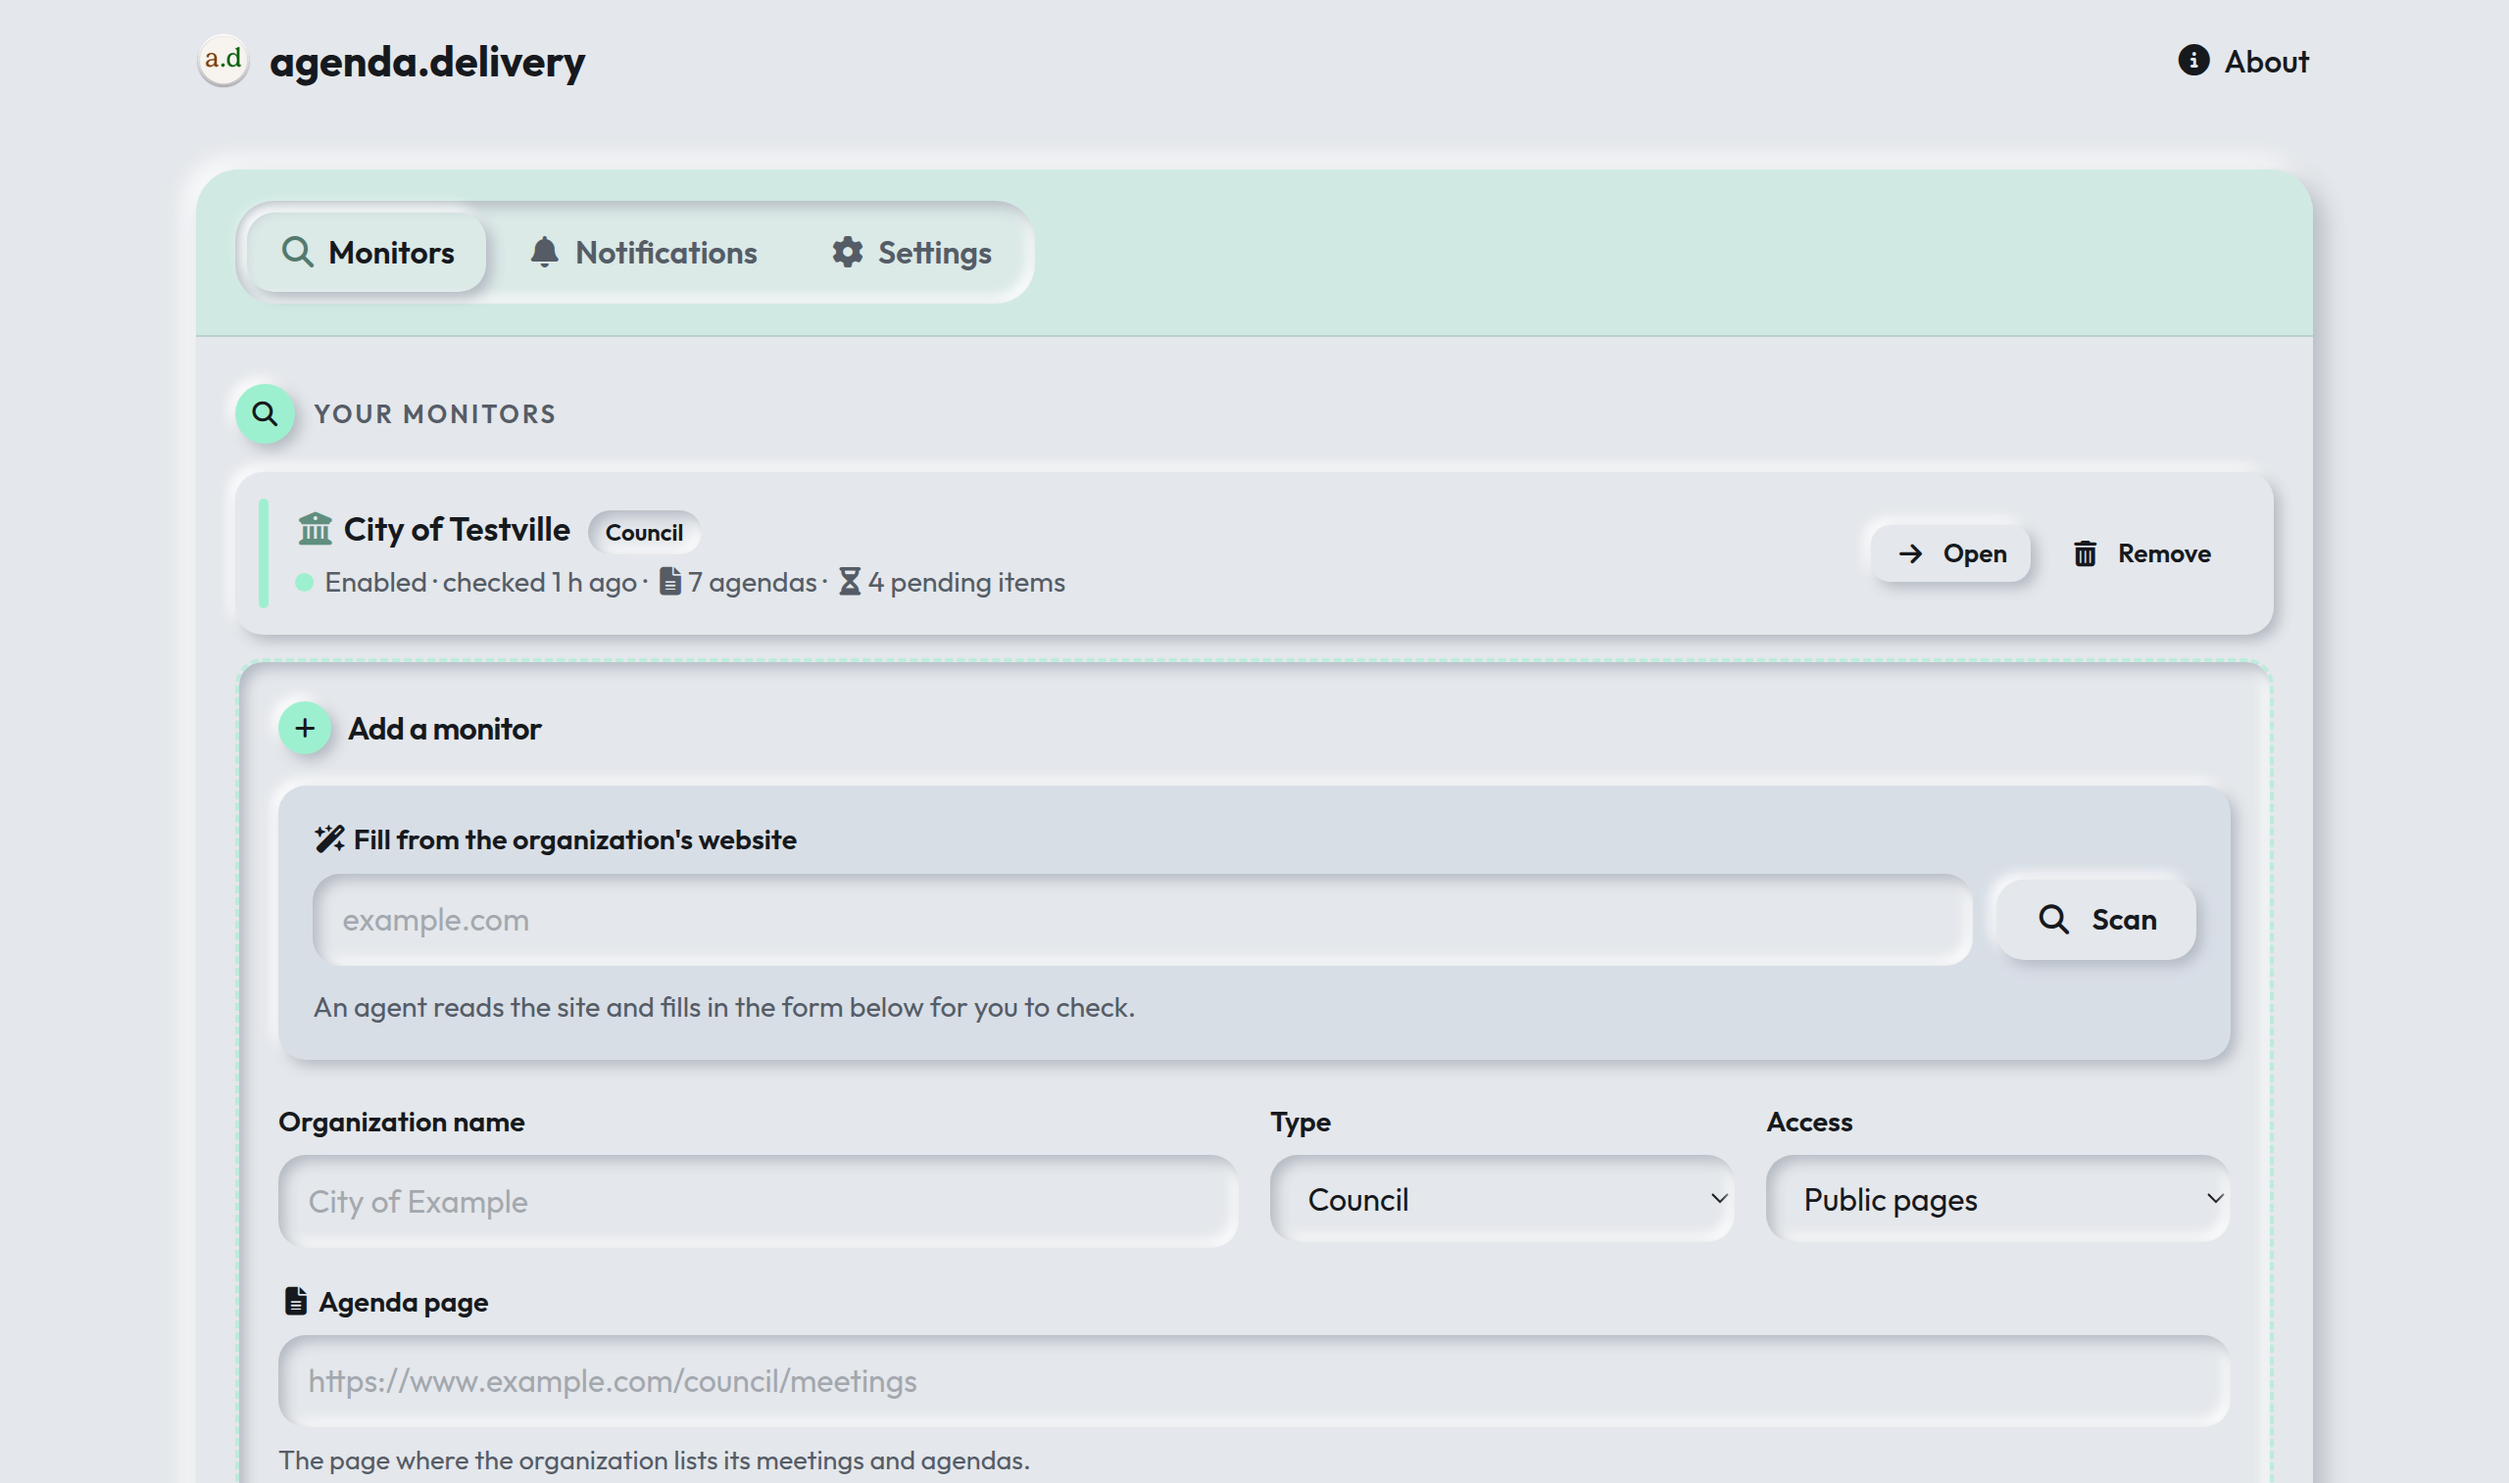
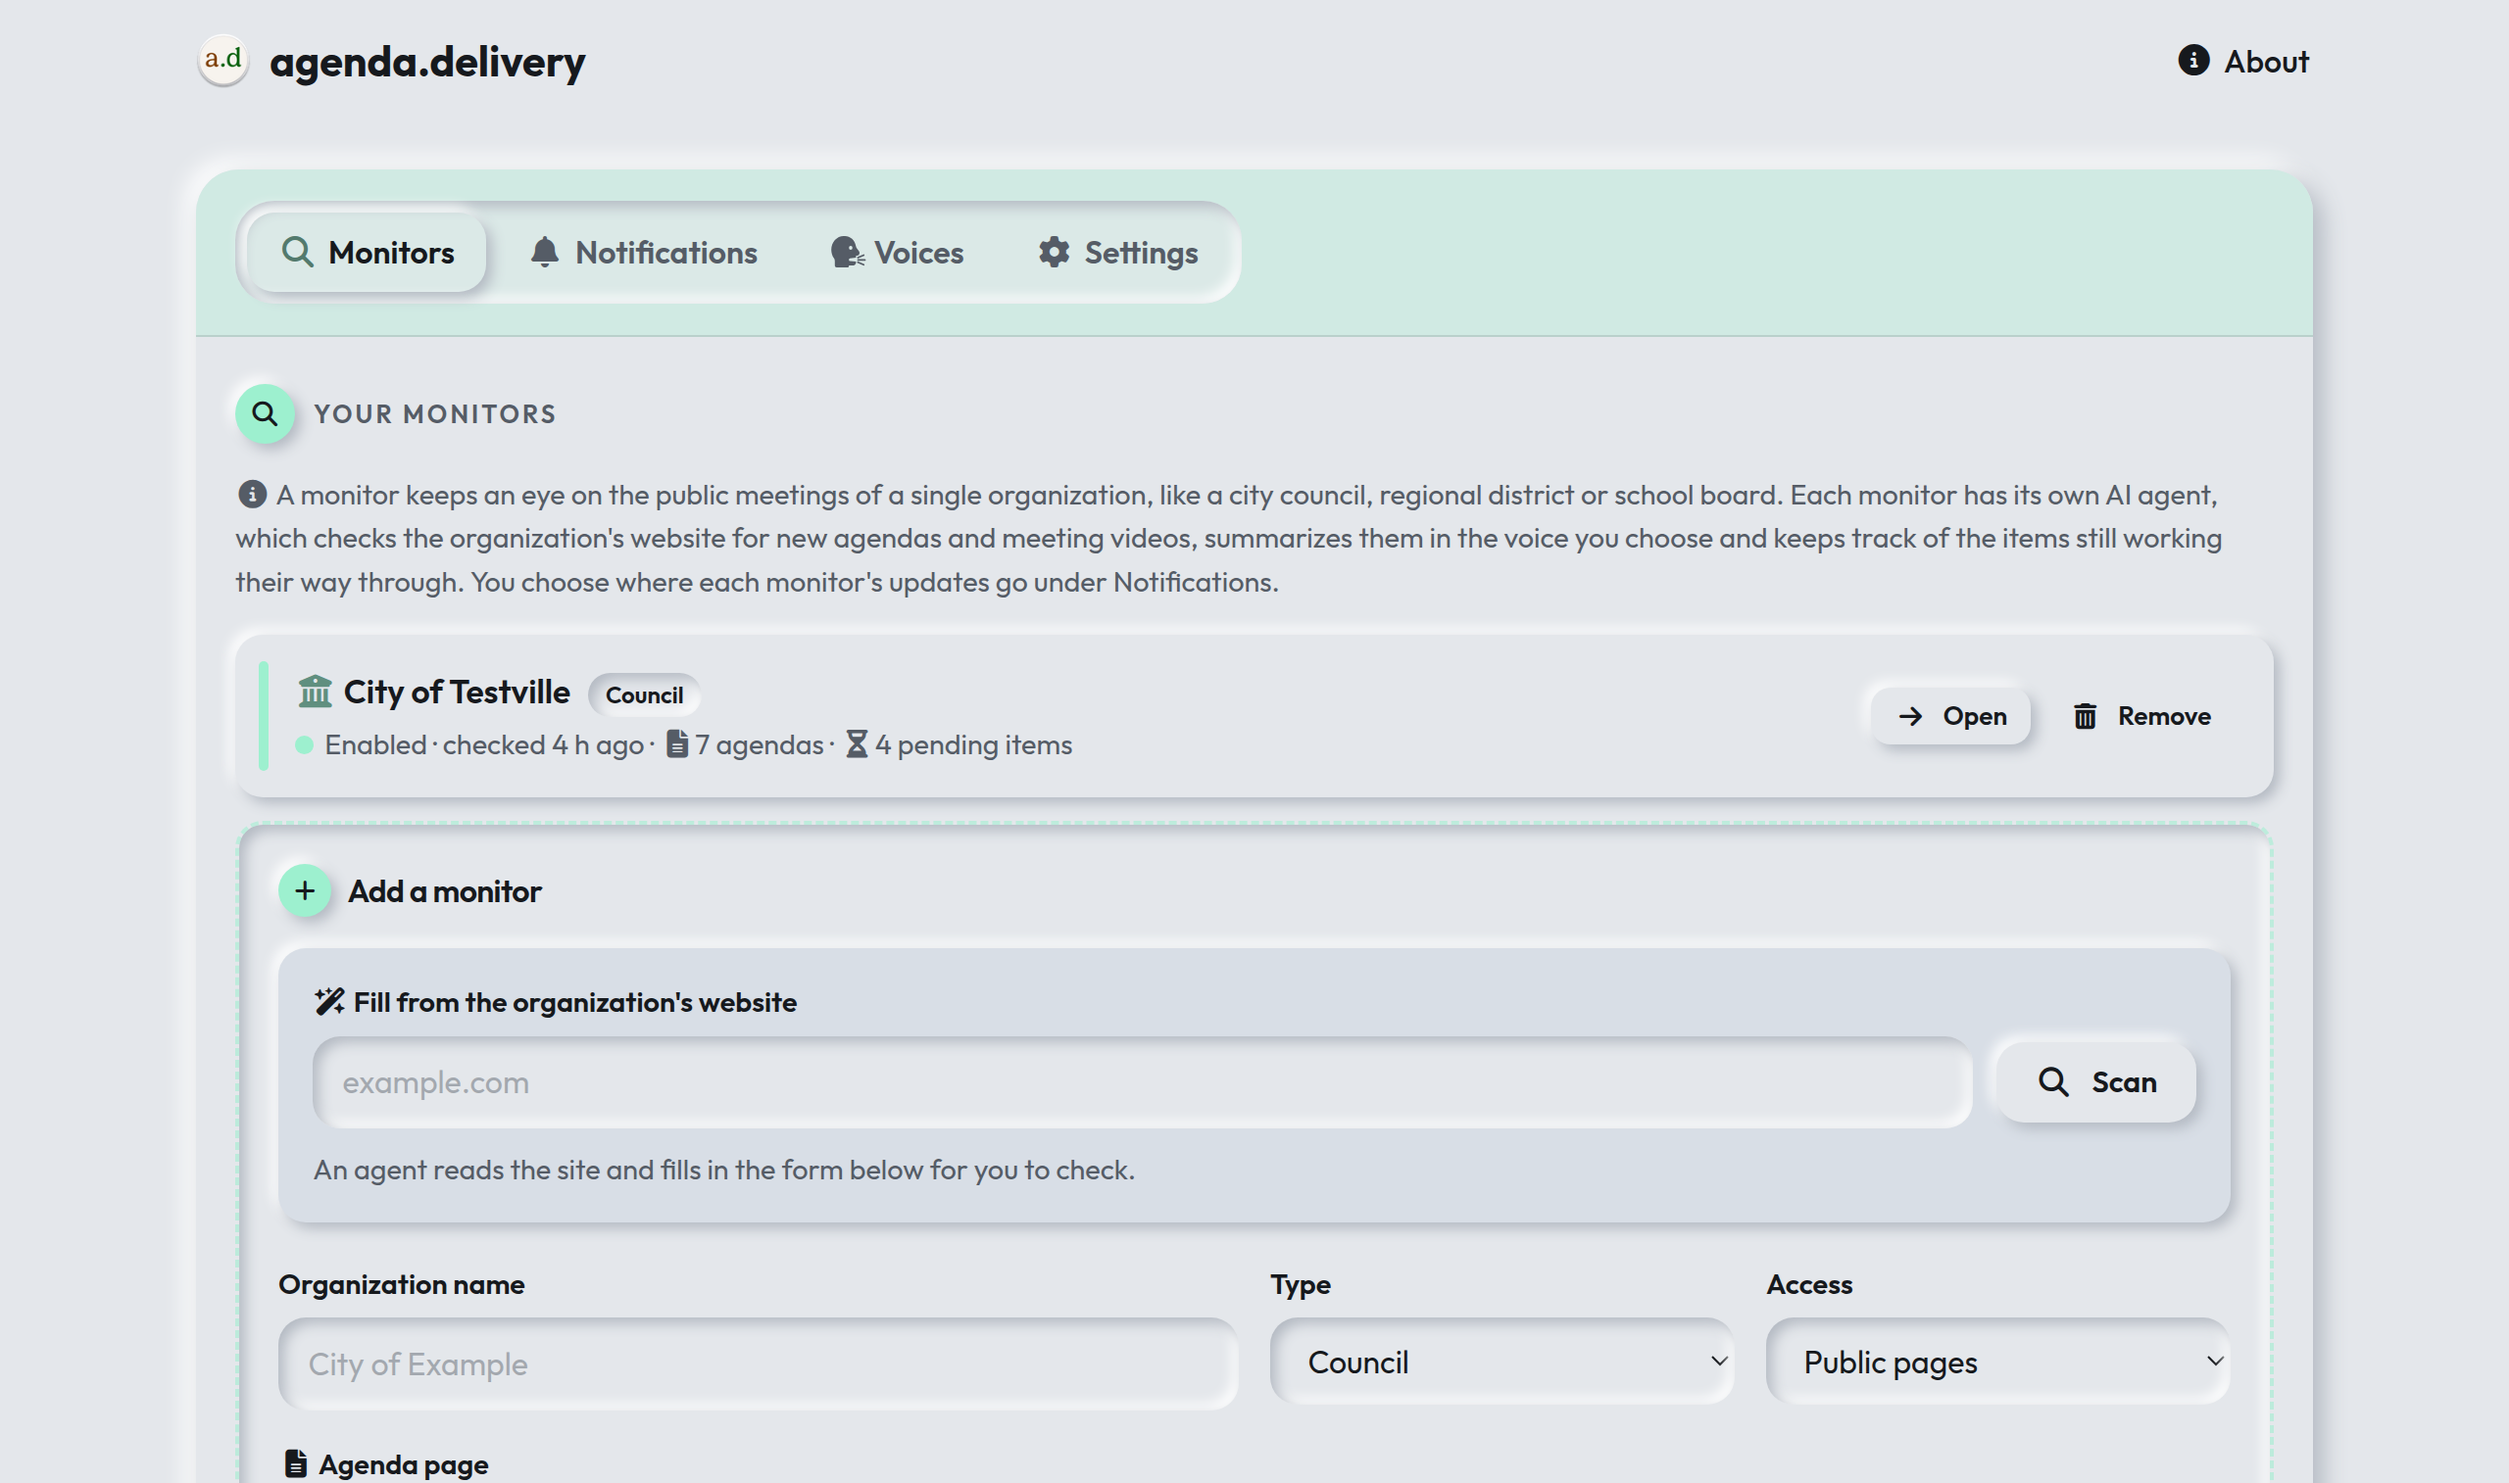
README screenshots show the current site, with the Voices page in place of the summary designer, the README covers voices, revisions, Markdown delivery, yt-dlp pacing and the migration order, and the new list placeholder fits its box

Changed region(s): [[0.0938, 0.3104, 0.9062, 1.0], [0.3125, 0.1242, 0.5, 0.2173]]

diff --git a/src/views/_list_rail.php b/src/views/_list_rail.php
@@ -17,7 +17,7 @@ $current = $current ?? 0;
   <form method="post" action="/notifications/lists" class="list-rail-new">
     <?= csrf_field() ?>
     <label class="label small" for="list_name"><?= icon('plus') ?> New list</label>
-    <input class="input" id="list_name" name="name" maxlength="60" required placeholder="Neighbourhood association">
+    <input class="input" id="list_name" name="name" maxlength="60" required placeholder="Neighbours">
     <button class="btn btn-sm btn-primary btn-block"><?= icon('plus') ?> Create list</button>
   </form>
 </aside>

diff --git a/README.md b/README.md
@@ -2,11 +2,11 @@
 
 <h1 align="center">agenda.delivery</h1>
 
-<p align="center"><b>Know what's on the agenda before it's decided.</b><br>agenda.delivery watches the public meetings of councils, school boards and other organizations. Each organization you add gets its own AI agent, which reads the agendas and meeting video transcripts as they're posted, writes plain language summaries in the style you choose, keeps track of the items still working their way through, and sends the news to your email, a mailing list, a Discord channel, a WhatsApp group, your phone through Pushover, or a webhook.</p>
+<p align="center"><b>Know what's on the agenda before it's decided.</b><br>agenda.delivery watches the public meetings of councils, school boards and other organizations. Each organization you add gets its own AI agent, which reads the agendas and meeting video transcripts as they're posted, writes summaries in the voice you choose, keeps track of the items still working their way through, and sends the news to your email, a mailing list, a Discord channel, a WhatsApp group, your phone through Pushover, or a webhook.</p>
 
 <p align="center"><a href="https://agenda.delivery"><b>Use it at agenda.delivery</b></a></p>
 
-<p align="center"><img src="docs/screenshots/monitor.png" width="800" alt="A monitor's page, showing a summary of a council meeting"></p>
+<p align="center"><img src="docs/screenshots/monitor.png" width="800" alt="A monitor's page, showing a summary of a council meeting and its revisions"></p>
 
 An account is free. New accounts join with a sign-up code, or by filling in a short registration that an admin approves.
 
@@ -24,13 +24,13 @@ It's a small project running on a single $20/month server and a $20/month Ollama
 
 - **Meeting types.** While setting up, the agent works out which kinds of meetings the organization holds (regular council, public hearings, committees and so on), and you choose which ones to follow.
 - **Voices.** A voice is the set of instructions summaries are written with, covering who's writing, the tone, what to cover and how long. You can start one from a template (a short news summary with highlights, Strong Towns topics, cycling and active transportation, decisions only, housing and land use, or a short alert), change it however you like and preview it on a monitor's latest agenda. Any number of monitors can share a voice, so one edit changes all of them, and each monitor can add its own note for local details like names and spellings. New monitors use your default voice. Summaries can be written in Markdown, which shows up formatted on the site and in email, and when an item comes back to council, the summary says where it stood.
-- **Revisions.** You can rebuild the summary of any agenda or video in its current voice, and the earlier revisions stay a click away, each showing the voice it was written in. Saving a voice can also rebuild the newest summary for every monitor that uses it.
+- **Revisions.** You can rebuild the summary of any agenda or video in its current voice, and the earlier revisions stay a click away, each showing the voice it was written in, that voice's instructions at the time and any note for that monitor. Saving a voice can also rebuild the newest summary for every monitor that uses it.
 
-<p align="center"><img src="docs/screenshots/summary-designer.png" width="800" alt="The summary designer, with its templates and instructions"></p>
+<p align="center"><img src="docs/screenshots/voices.png" width="800" alt="The Voices page, with a voice open beside the list of voices"></p>
 
 - **Agendas and videos.** The agent finds each new agenda and writes its summary. Add a video page or YouTube channel and it summarizes each meeting from its captions, with members' names corrected. A new monitor's first check saves what's already posted without sending it, so you only hear about meetings that appear after you add it.
 - **Pending items.** Bylaws between readings, motions waiting on a staff report, deferred items and scheduled public hearings stay listed on the monitor's page until they're settled.
-- **Notifications.** Your own email address is always a destination, and a new monitor sends its summaries there. Add other email addresses, mailing lists, Discord webhooks, a WhatsApp group, Pushover or a JSON webhook, then choose for each monitor which destinations get its news and what each one gets, whether that's the summary, just the link, the lines that match your keywords, or the answer to your own question. Email can arrive as each update happens, or gathered into a daily or weekly roundup that's only sent when there's news. Any destination can be paused, and a history shows what was sent, what stayed quiet and what failed.
+- **Notifications.** Your own email address is always a destination, and a new monitor sends its summaries there. Add other email addresses, mailing lists, Discord webhooks, a WhatsApp group, Pushover or a JSON webhook, then choose for each monitor which destinations get its news and what each one gets, whether that's the summary, just the link, the lines that match your keywords, or the answer to your own question. Email can arrive as each update happens, or gathered into a daily or weekly roundup that's only sent when there's news. Summaries written in Markdown show up formatted in email, as Markdown in Discord and webhooks, in WhatsApp's own formatting and as plain text through Pushover. Any destination can be paused, and a history shows what was sent, what stayed quiet and what failed.
 
 <p align="center"><img src="docs/screenshots/notifications.png" width="800" alt="The Notifications page, listing destinations"></p>
 
@@ -66,9 +66,9 @@ Monitors of the same page share a site record: how the site is laid out, its mee
 
 - keeps a gateway running for every monitor, checks each one's health every 15 seconds and restarts any that stop, with a growing pause if one keeps failing
 - runs each agent every six hours at its own offset within the hour, or straight away when someone presses Check now, at most 2 at a time, and records every run in `agent_run`
-- runs every executable an agent needs, Chrome (2 at a time, in a virtual display so bot checks let it through), `pdftotext` and `yt-dlp`, with time limits, and records each in `job`
+- runs every executable an agent needs, Chrome (2 at a time, in a virtual display so bot checks let it through), `pdftotext` and `yt-dlp`, with time limits, and records each in `job`. `yt-dlp` runs one at a time with a few seconds between runs, asks YouTube for one caption track per video, and leaves YouTube alone for 15 minutes if it answers that there have been too many requests
 - keeps a WhatsApp bridge (`whatsapp/bridge.mjs`, a small Node program using Baileys) running for each WhatsApp destination, records whether it's linked, and unlinks it and deletes its session when the destination is removed
-- runs `bin/tick.php` every minute and after each run, which imports each agent's token use into `ai_usage`, sends waiting notifications (retrying a failed one for up to a day), sends the daily and weekly digests at `digest_hour` by the clock set in `timezone`, and emails the owner of a WhatsApp link that has dropped
+- runs `bin/tick.php` every minute and after each run, which imports each agent's token use into `ai_usage`, sends waiting notifications (retrying a failed one for up to a day), sends the daily and weekly roundups at `digest_hour` by the clock set in `timezone`, emails the owner of a WhatsApp link that has dropped, and rewrites queued summaries a few at a time, such as the newest agenda of each monitor using a voice that was just saved
 
 The website and `adtool` reach the service through an HTTP API on the Unix socket `/run/agenda-delivery/service.sock`: `GET /health`, `GET /agents`, `GET /agents/<key>/log`, `POST /agents/<key>/run`, `sync`, `pause` and `resume`, `DELETE /agents/<key>`, `GET /jobs` and `POST /exec`. The database holds what each agent should be doing, so if the service is down nothing is lost, and it picks up where things stand when it starts.
 
@@ -90,7 +90,7 @@ Google sign-in needs an OAuth client with the redirect URI `https://agenda.deliv
 
 ### Upgrading
 
-A new install makes every table itself. A database from an earlier version needs the files in `deploy/migrations`, each applied once in date order while the service is stopped and before the new code is installed: `sqlite3 /var/lib/agenda/agenda.db < deploy/migrations/<file>.sql`. Run the one ending in `.sh` with `sh` instead.
+A new install makes every table itself. A database from an earlier version needs the files in `deploy/migrations` that it hasn't had yet, each applied once while the service is stopped and before the new code is installed: `sqlite3 /var/lib/agenda/agenda.db < deploy/migrations/<file>.sql`, or `sh` for the one ending in `.sh`. Their names don't sort into the order they need, so apply them in this order: `notifications`, `monitor-numbers`, `branding`, `pushover`, `colours`, `whatsapp`, `whatsapp-groups`, `summary-history`, `news-default`, `news-highlights`, `summary-markdown`, `voices`, `summary-voice-name` (each starting with `2026-11-`).
 
 ## Development
 
